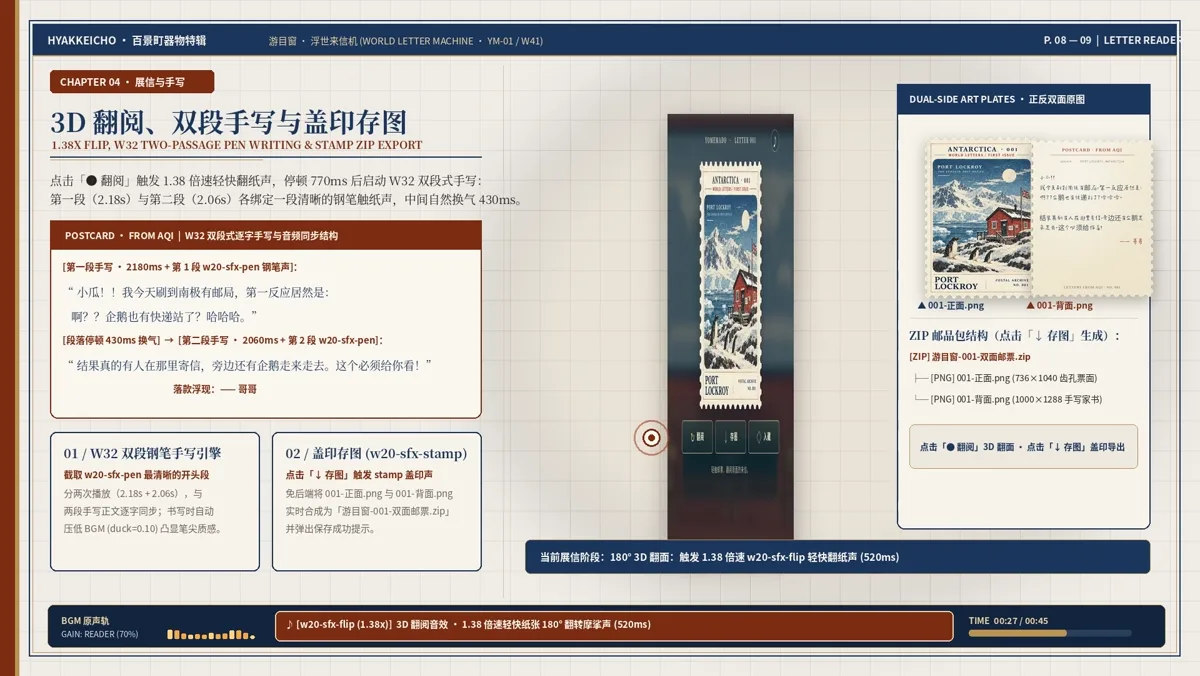
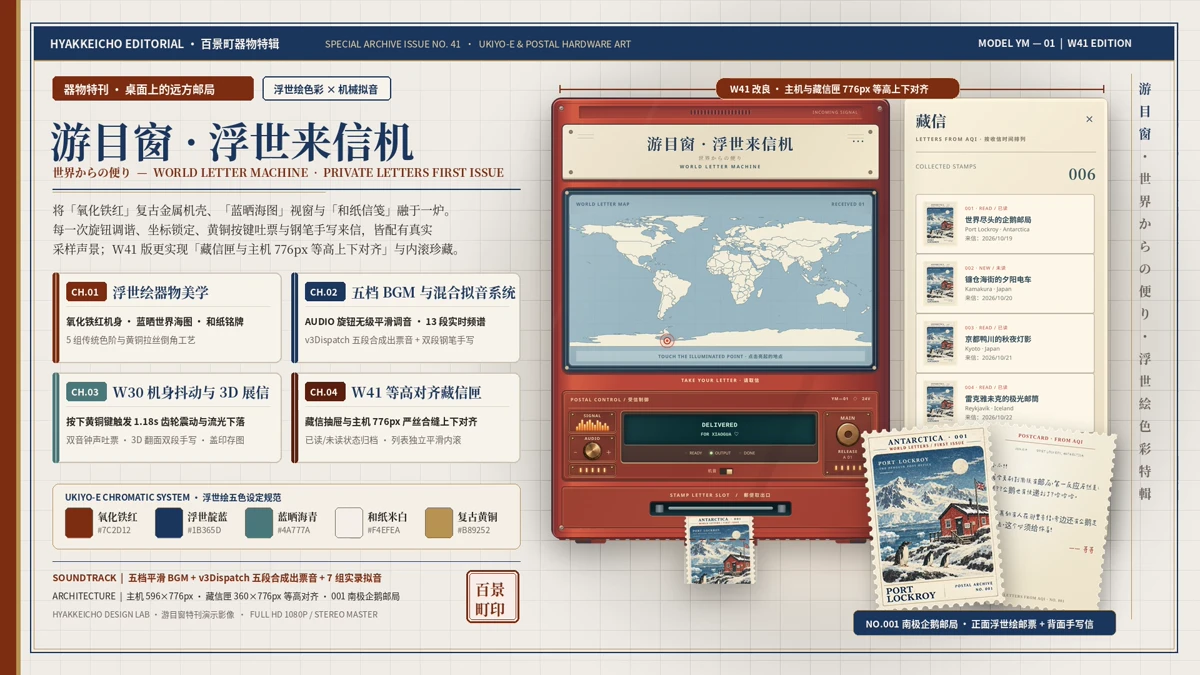
docs: embed the original film and introduce the project on the homepage (#20)

diff --git a/index.html b/index.html
@@ -91,20 +91,20 @@
 <body>
   <header class="top"><div class="wrap"><div class="brand">游目窗 / YOMÉMADO</div><nav aria-label="页面导航"><a href="#film">看演示</a><a href="#deploy">一键部署</a><a href="template/index.html">体验机器</a><a href="#idea">构思</a><a href="#journey">制作</a><a href="#lessons">复盘</a><a href="#share">公开内容</a></nav></div></header>
   <main>
-    <div class="hero"><div class="wrap"><div><div class="kicker">PROJECT NOTES · 2026</div><h1>游目窗<br>浮世来信机</h1><p class="lead">世界地图上亮起一个红点。按下出票键，取出一枚有画的邮票；翻到背面，读一封来自远方的短笺。</p><div class="hero-note">一件从构思、声音与制票，走到持续接信的私人作品</div></div><div class="hero-video" id="showcase">
+    <div class="hero"><div class="wrap"><div><div class="kicker">PROJECT NOTES · 2026</div><h1>游目窗<br>浮世来信机</h1><p class="lead">世界地图上亮起一个红点。按下出票键，取出一枚有画的邮票；翻到背面，读一封来自远方的短笺。</p><div class="hero-note">从一次发现，到一枚可以亲手取出与收藏的邮票</div></div><div class="hero-video" id="showcase">
   <div class="film-shell">
-    <video id="showcase-film" controls playsinline preload="metadata" poster="docs/assets/showcase-poster.webp" aria-describedby="film-caption">
+    <video id="showcase-film" controls playsinline preload="metadata" poster="docs/assets/showcase-poster.webp?v=opening-overview" aria-describedby="film-caption">
       <source src="docs/assets/yomemado-showcase-original.mp4" type="video/mp4">
       您的浏览器不支持 HTML5 视频。
     </video>
     <div class="film-meta"><span>YOMÉMADO / PROJECT FILM</span><span>00:45 · ORIGINAL VIDEO</span></div>
   </div>
-  <div class="film-description" id="film-caption"><strong>用户提供的项目演示原片</strong><span>45 秒 · 1080p 原片 · 保留现有音轨</span></div>
+  <div class="film-description" id="film-caption"><strong>游目窗 · 原版演示</strong><span>45 秒 · 1080p 原片 · 保留现有音轨</span></div>
 </div></div></div>
     <section id="film"><div class="wrap">
   <div class="eyebrow">00 / WATCH THE PROJECT</div>
   <h2>先看它怎样运转</h2>
-  <p class="intro">直接播放用户提供的项目演示原片，保留原有画面、分辨率和音轨。点击下方章节，从对应画面开始观看。</p>
+  <p class="intro">45 秒，看这台机器怎样点亮地图、送出邮票、翻面写信，再把来信收进藏信册。下方章节可以直接跳到想看的部分。</p>
   <div class="film-chapters" aria-label="视频章节">
     <button class="film-chapter" type="button" data-second="0"><time>00:00</time><span>浮世绘与机器配色</span></button>
     <button class="film-chapter" type="button" data-second="9"><time>00:09</time><span>机械声与背景设计</span></button>
@@ -115,9 +115,9 @@
   <p class="film-note">演示视频使用用户原文件，保留现有音轨。原项目配乐：AKMU（乐童音乐家）《Farewell》 / SAILING。视频及音乐不随代码的 MIT 许可开放重用。</p><p class="film-note">原片记录 W41 阶段的设计与历史计数；当前公开机器使用三份独立样例，收信与入藏规则以现行机器和行为对照为准。</p>
 </div></section>
     <section id="deploy"><div class="wrap"><div class="eyebrow">01 / DEPLOY YOUR OWN</div><h2>拿到链接，就部署一台自己的游目窗</h2><p class="intro">公开版现在不只是项目手记。模板是独立的静态站点：没有后台、没有密钥，部署后直接能点地图、出票、翻面、下载 PNG 和入藏。个性化主要改两个文件：<code>config.js</code> 和 <code>letters.js</code>。</p><div class="links"><a href="https://vercel.com/new/clone?repository-url=https%3A%2F%2Fgithub.com%2Fjianjidanbenren-eng%2Fyomemado&root-directory=template&project-name=my-yomemado&repository-name=my-yomemado">Deploy with Vercel →</a><a href="https://app.netlify.com/start/deploy?repository=https://github.com/jianjidanbenren-eng/yomemado">Deploy to Netlify →</a><a href="https://github.com/jianjidanbenren-eng/yomemado/blob/main/template/USAGE.md">查看使用说明</a></div><p class="disclosure">模板沿用原机外壳与交互，默认宋体，使用独立示例数据；外形、音效、字体、配乐和邮票均可按喜好修改。</p></div></section>
-    <section id="idea"><div class="wrap"><div class="eyebrow">02 / THE IDEA</div><h2>让一封信有抵达的过程</h2><p class="intro">我们想要的不是滚动的信息列表。地图负责发现，机器负责出票，邮票把地点留在手里。最新一封抵达时先等着，收信人亲自点下「入藏」，才把它放进自己的藏信册。</p><div class="grid"><div class="card"><div class="num">DISCOVER</div><h3>地图红点</h3><p>正式来信先核实真实地点；公开样例的地图点位为示意。屏幕显示地点全名，印刷区使用准确短名。</p></div><div class="card"><div class="num">RELEASE</div><h3>出票与翻面</h3><p>机械动作、翻纸和逐段出现的短笺组成阅读节奏；声音与按钮动作一起设计。</p></div><div class="card"><div class="num">MAKE</div><h3>无字画芯</h3><p>照片转绘或自主采风先得到一幅插画，再由固定版式加字、编号和透明齿孔。</p></div><div class="card"><div class="num">KEEP</div><h3>自己决定入藏</h3><p>地图显示有效来信；藏信按新到旧排列。最新一封的入藏权交给收信人。</p></div></div></div></section>
-    <section id="journey"><div class="wrap"><div class="eyebrow">03 / THE JOURNEY</div><h2>从手作机器，到能反复寄信</h2><div class="timeline"><div class="step"><b>构思</b><p>确定红点、出票、翻面和手动入藏，把邮票当作故事的入口。</p></div><div class="step"><b>机器</b><p>反复校对机身布局与手机阅读；为机械声、纸声、钢笔声和字句安排同一时间轴。</p></div><div class="step"><b>制票</b><p>确立「无字画芯 → 固定母版」：正反面各 736 × 1040 RGBA，共用齿孔 Alpha。</p></div><div class="step"><b>接信</b><p>保留旧信，用受限的数据通道加入新信；发布后仍到真实网页检查地图、出票、翻面与撤回。</p></div><div class="step"><b>持续</b><p>可另接定时任务采风与投递；公开模板不内置日程和邮件通知。</p></div></div></div></section>
-    <section id="lessons"><div class="wrap"><div class="eyebrow">04 / THE LESSONS</div><h2>几条刻进流程里的教训</h2><div class="rules"><div class="rule"><h3>画芯不写字</h3><p>整枚交给图像模型会带来���码与漂移。字和齿孔留给可重复的排版程序。</p></div><div class="rule"><h3>发布不等于可见</h3><p>后台有编号还不够。浏览器要取得完整图片和数据，真实页面也要能出票与翻面。</p></div><div class="rule"><h3>旧收藏不代表新选择</h3><p>浏览器旧标记曾让最新邮票提前入册。手动入藏须与当前信件绑定，撤回后重新计算。</p></div></div><p class="quote">一枚新邮票的完成条件，是收信人真的能打开它。</p></div></section>
+    <section id="idea"><div class="wrap"><div class="eyebrow">02 / THE IDEA</div><h2>让一封信有抵达的过程</h2><p class="intro">游目窗从“出去看看，再带着有意思的东西回来一起聊”的念头长出来。文学、建筑、城市、风景或一个日常细节，都能成为来信的起点；聊到想留下的那一次，再把它做成邮票。</p><p class="intro">地图点亮来信的位置，机械动作给它抵达的过程：按下出票键，取出图画正面，翻到短笺背面，最后亲手入藏。正面看景，背面读信，藏信让这些发现可以再次遇见。</p><div class="grid"><div class="card"><div class="num">DISCOVER</div><h3>地图红点</h3><p>正式来信先核实真实地点；公开样例的地图点位为示意。屏幕显示地点全名，印刷区使用准确短名。</p></div><div class="card"><div class="num">RELEASE</div><h3>出票与翻面</h3><p>机械动作、翻纸和逐段出现的短笺组成阅读节奏；声音与按钮动作一起设计。</p></div><div class="card"><div class="num">MAKE</div><h3>无字画芯</h3><p>照片转绘或自主采风先得到一幅插画，再由固定版式加字、编号和透明齿孔。</p></div><div class="card"><div class="num">KEEP</div><h3>自己决定入藏</h3><p>地图显示有效来信；藏信按新到旧排列。最新一封的入藏权交给收信人。</p></div></div></div></section>
+    <section id="journey"><div class="wrap"><div class="eyebrow">03 / THE JOURNEY</div><h2>从手作机器，到能反复寄信</h2><div class="timeline"><div class="step"><b>构思</b><p>确定红点、出票、翻面和手动入藏，把邮票当作故事的入口。</p></div><div class="step"><b>机器</b><p>反复校对机身布局与手机阅读；为机械声、纸声、钢笔声和字句安排同一时间轴。</p></div><div class="step"><b>制票</b><p>将无字插画与准确排版分开，按选定母版制作双面成品；当前示例采用 736 × 1040 RGBA。</p></div><div class="step"><b>接信</b><p>保留旧信，用受限的数据通道加入新信；发布后仍到真实网页检查地图、出票、翻面与撤回。</p></div><div class="step"><b>持续</b><p>可另接定时任务采风与投递；公开模板不内置日程和邮件通知。</p></div></div></div></section>
+    <section id="lessons"><div class="wrap"><div class="eyebrow">04 / THE LESSONS</div><h2>几条刻进流程里的教训</h2><div class="rules"><div class="rule"><h3>画芯不写字</h3><p>整枚交给图像模型会带来乱码与漂移。字和齿孔留给可重复的排版程序。</p></div><div class="rule"><h3>发布不等于可见</h3><p>后台有编号还不够。浏览器要取得完整图片和数据，真实页面也要能出票与翻面。</p></div><div class="rule"><h3>旧收藏不代表新选择</h3><p>浏览器旧标记曾让最新邮票提前入册。手动入藏须与当前信件绑定，撤回后重新计算。</p></div></div><p class="quote">一枚新邮票的完成条件，是收信人真的能打开它。</p></div></section>
     <section id="share"><div class="wrap"><div class="eyebrow">05 / START HERE</div><h2>带走这台机器，寄出自己的信</h2><p class="intro">公开包提供可部署机器、三枚历史样例、完整制票 Skill 和六份提示词。先试玩，再按使用说明替换自己的内容；需要 Site 插件、定时提醒或自动投递时，按快速接入配置。</p><p><a href="template/index.html" style="display:inline-block;padding:12px 20px;background:#82352f;color:#fff1d4;text-decoration:none;font:700 13px system-ui;border-radius:4px">亲手试玩公开来信机 →</a></p><p>灵感感谢池又雨（Yinglianchun）；制票方法学习并改写自 cakeni、Yan Liu、FANTASY／梵想美学的公开 Skill。作者、原项目、改写和素材使用范围统一见「灵感与致谢」。</p><div class="links"><a href="https://github.com/jianjidanbenren-eng/yomemado/blob/main/template/USAGE.md">部署与使用</a><a href="https://github.com/jianjidanbenren-eng/yomemado/blob/main/skills/yomemado-stamp-maker/SKILL.md">制票 Skill</a><a href="https://github.com/jianjidanbenren-eng/yomemado/blob/main/skills/yomemado-stamp-maker/references/prompts.md">完整提示词</a><a href="https://github.com/jianjidanbenren-eng/yomemado/blob/main/docs/灵感与致谢.md">灵感与致谢</a><a href="https://github.com/jianjidanbenren-eng/yomemado/blob/main/docs/踩坑复盘.md">踩坑指南</a><a href="https://github.com/jianjidanbenren-eng/yomemado/blob/main/docs/自动投递与跨设备接入.md">提醒与自动投递</a></div></div></section>
   </main>
   <script>

diff --git a/README.md b/README.md
@@ -1,28 +1,47 @@
 # 游目窗 · 浮世来信机
 
-一台可以自己部署的世界来信机：地图选点 → 出票 → 翻面读信 → 下载双面邮票 → 亲手入藏。
+一台把世界各地的发现，做成邮票与短笺的复古来信机。
 
-**[试玩机器](https://jianjidanbenren-eng.github.io/yomemado/template/)** · [看原片](https://jianjidanbenren-eng.github.io/yomemado/#showcase)
+**[试玩机器](https://jianjidanbenren-eng.github.io/yomemado/template/)** · [项目说明](https://jianjidanbenren-eng.github.io/yomemado/)
 
-公开包提供静态机器、三封网页样例，以及含六套原图与双面成品的制票 Skill。**网页版不内置定时采风、自动投递、邮箱提醒或账户同步**；需要时按接入说明另外配置。
+游目窗从“出去看看，再带着有意思的东西回来一起聊”的念头长出来。文学、建筑、城市、风景或一个日常细节，都可以成为一封信的起点；聊到想留下的那一次，再把它做成一枚有画、有字、可以翻阅与收藏的邮票。
 
-## 只选一个入口
+## 项目演示
 
-| 现在要做什么 | 打开这里 |
-| --- | --- |
-| 部署网页，换外形、音效、字体、配乐或来信 | [部署与使用](template/USAGE.md) |
-| 制作完整双面邮票，或另定形式、排版和大小 | [制票 Skill](skills/yomemado-stamp-maker/SKILL.md) |
-| 让小机接手，配置 Site、插件、定时任务与邮箱提醒 | [快速接入](docs/自动投递与跨设备接入.md#快速交给小机) |
-| 出了问题再查 | [踩坑指南](docs/踩坑复盘.md) |
-| 看灵感、迭代、参考作者与素材范围 | [灵感与致谢](docs/灵感与致谢.md) |
+https://github.com/user-attachments/assets/f760c3f3-47d6-4983-9f9e-7234352e87c5
+
+45 秒原版演示，保留原画面与音轨。视频记录 W41 的制作过程；当前公开机器与历史视频的样例、计数可能不同，现行规则见使用说明。
+
+## 怎样收一封信
+
+地图上有来信的地方会亮起红点。选择地点，按下 **RELEASE**，邮票从槽口滑出；轻触翻到背面，看两段短笺逐字写完，再决定把它存成双面 PNG，或亲手放进藏信册。
+
+我们想留下的是发现与分享的过程。聊天可以自然延伸，邮票是其中一次相遇的纪念品。
+
+## 几个藏在里面的小巧思
+
+- **一面看景，一面读信：** 插画与短笺留在同一枚邮票上，取信、翻面和入藏各有自己的动作。
+- **照片与风格分工：** 源照片保留主体和空间，木版风格提供刻线、油墨与纸感；不同地方仍保留自己的颜色。
+- **画画与排版分工：** 图像工具制作无字插画，程序完成准确的文字、编号和外沿；同系列稳定复用母版。
+
+## 带走什么，从哪里开始
+
+| 内容 | 包里已有 | 操作入口 |
+| --- | --- | --- |
+| 静态来信机 | 地图、出票、翻面写字、声音、下载与藏信，附三封网页样例 | [部署与使用](template/USAGE.md) |
+| 完整制票 Skill | 照片转绘／自主采风，六套原图与双面成品、完整提示词、母版和脚本 | [制票 Skill](skills/yomemado-stamp-maker/SKILL.md) |
+| 连接与定时提醒 | 一段接手提示词，Site、插件、自动投递和邮箱提醒的设置步骤 | [快速接入](docs/自动投递与跨设备接入.md#快速交给小机) |
+| 来源与经验 | 灵感来路、参考作者、素材记录及踩坑定位 | [灵感与致谢](docs/灵感与致谢.md) · [踩坑指南](docs/踩坑复盘.md) |
+
+**网页版默认不带自动采风、自动投递、邮件通知或账户同步后端。** 上表的连接部分是接入说明，需要在使用者自己的环境实现与配置。
+
+机器外形、音效、字体、配乐，以及邮票的形式、排版和大小，都可以按自己的想法修改。随包样式是我们这一版喜欢的选择，修改入口统一放在使用说明与 Skill 中。
 
 ## 部署自己的机器
 
 [![Deploy with Vercel](https://vercel.com/button)](https://vercel.com/new/clone?repository-url=https%3A%2F%2Fgithub.com%2Fjianjidanbenren-eng%2Fyomemado&root-directory=template&project-name=my-yomemado&repository-name=my-yomemado)
 [![Deploy to Netlify](https://www.netlify.com/img/deploy/button.svg)](https://app.netlify.com/start/deploy?repository=https://github.com/jianjidanbenren-eng/yomemado)
 
-Vercel 根目录选 `template`；Netlify 使用仓库配置。其余设置、换图示例和收信规则只在使用说明维护。
+Vercel 根目录选 `template`；Netlify 使用仓库配置。希望自己的小机接手时，把本仓库地址和快速接入页的提示词交给它，再选择手动部署、只提醒或自动投递。
 
-`template/` 放机器，`skills/` 放制票方法，`docs/` 放来源、踩坑和接入三篇说明，`tests/` 放开发检查。当前外形、声音和邮票版式是默认示例，可按自己的喜好修改。
-
-原创代码与文档采用 [MIT](LICENSE)；参考项目与第三方素材范围统一见[灵感与致谢](docs/灵感与致谢.md)。
+最初灵感来自池又雨／Yinglianchun 的 SameWindow；制票方法参考 cakeni、Yan Liu、FANTASY／梵想美学。具体借鉴、改写与许可统一见灵感与致谢。原创代码与文档采用 [MIT](LICENSE)，视频、音乐和第三方素材按各自范围处理。
